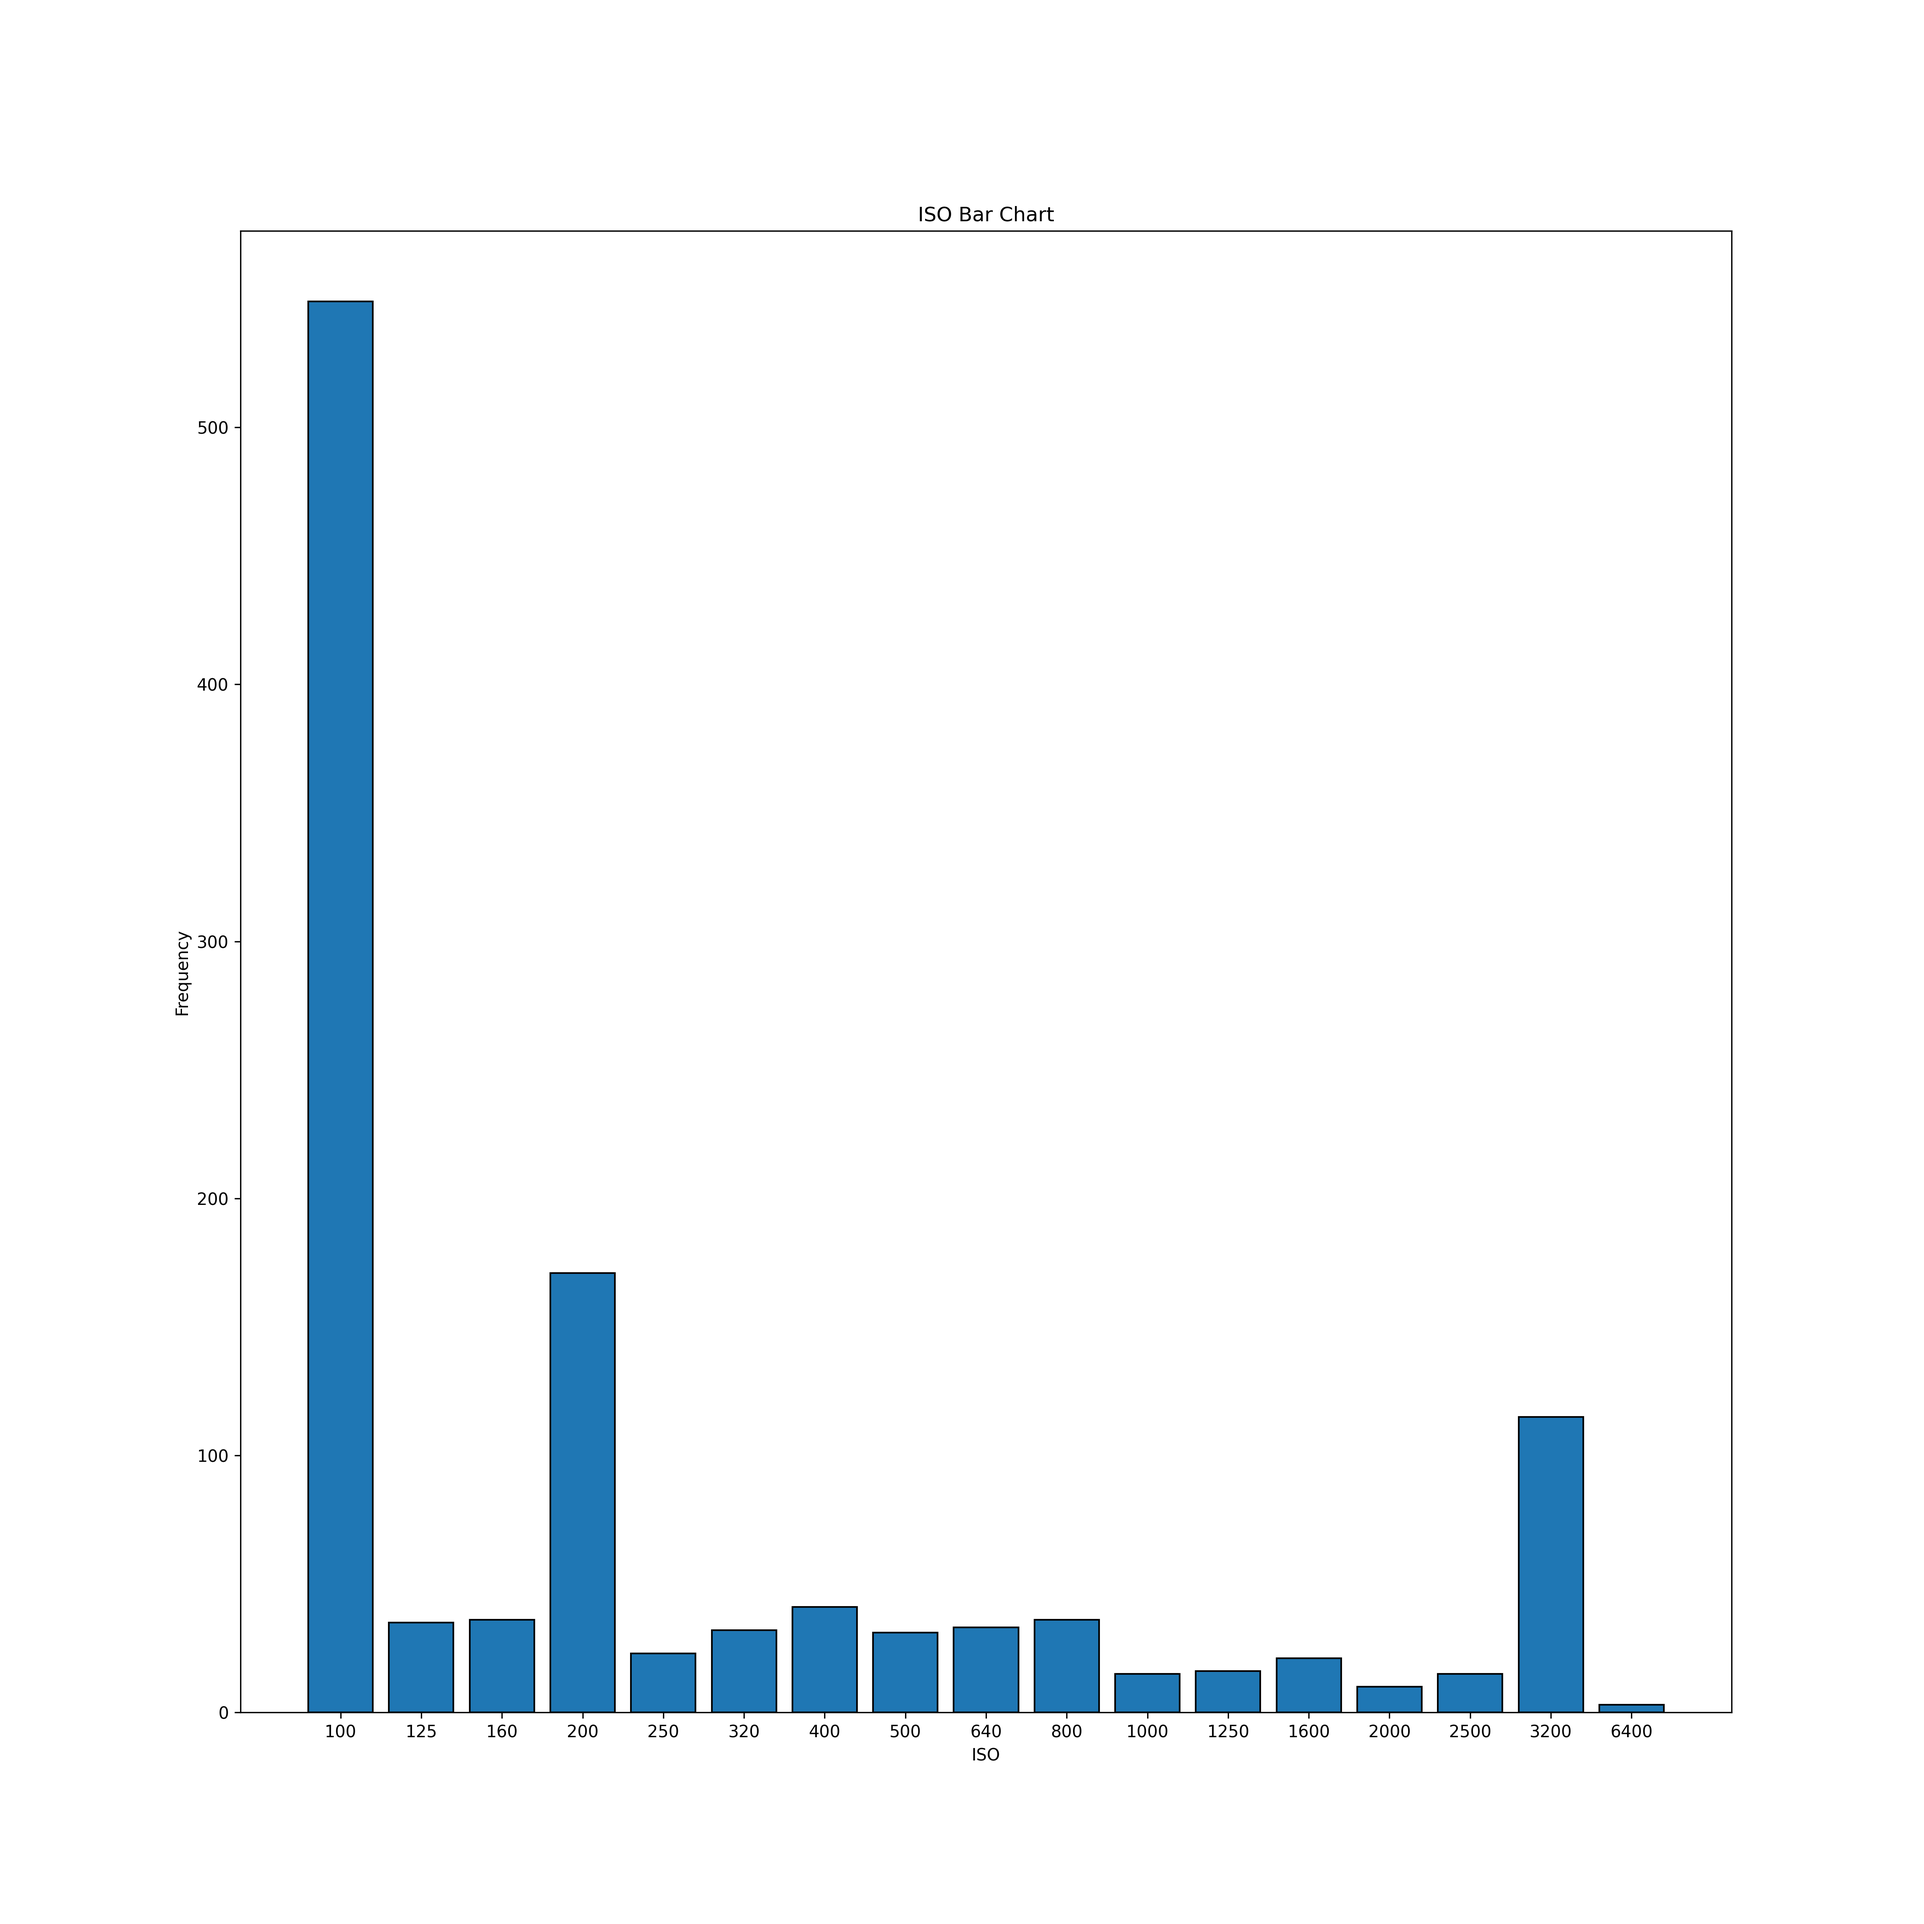
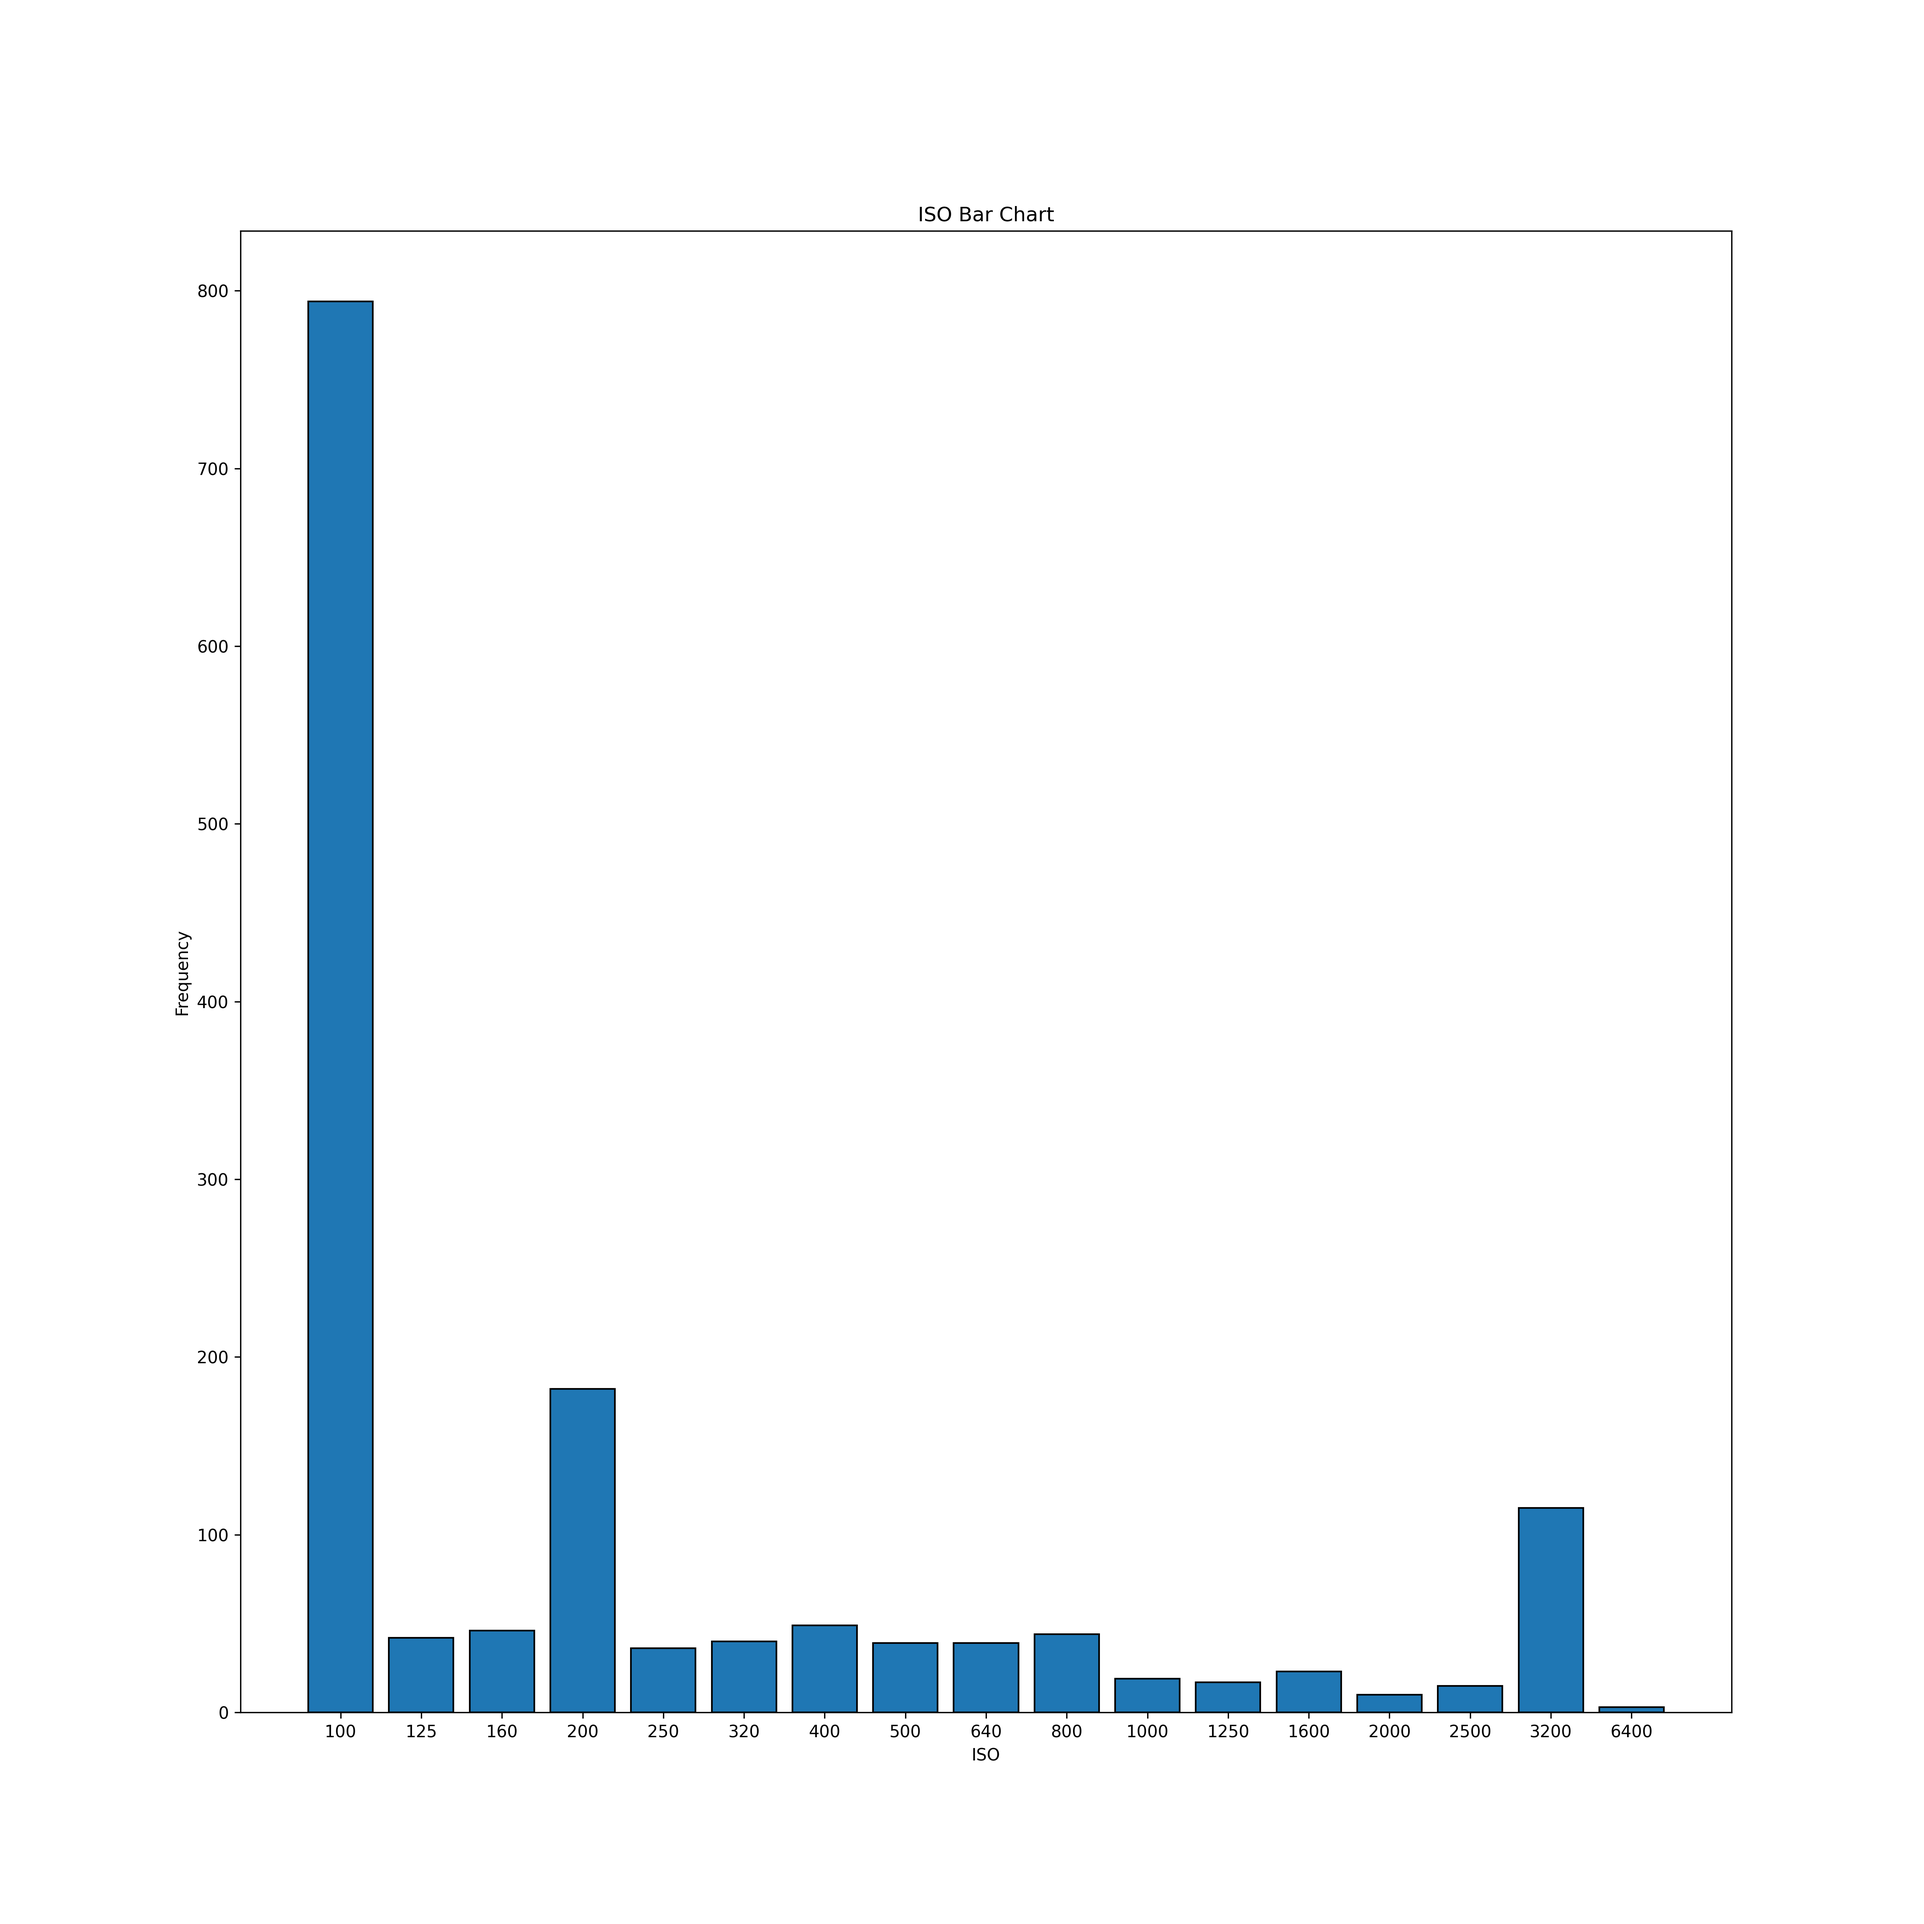
N/A Scotland Road Trip

diff --git a/read_images.py b/read_images.py
@@ -221,7 +221,7 @@ if __name__ == "__main__":
     image_metadatas = []
 
     # Read the metadata from the images
-    for image_name in glob.glob("images/*.JPG"):
+    for image_name in glob.glob("images/*/*.JPG"):
         image = Image.open(image_name)
         image_exif = image.getexif()
         image_metadata = ImageMetadata(str(image_exif.get_ifd(34665).get(42036)),
